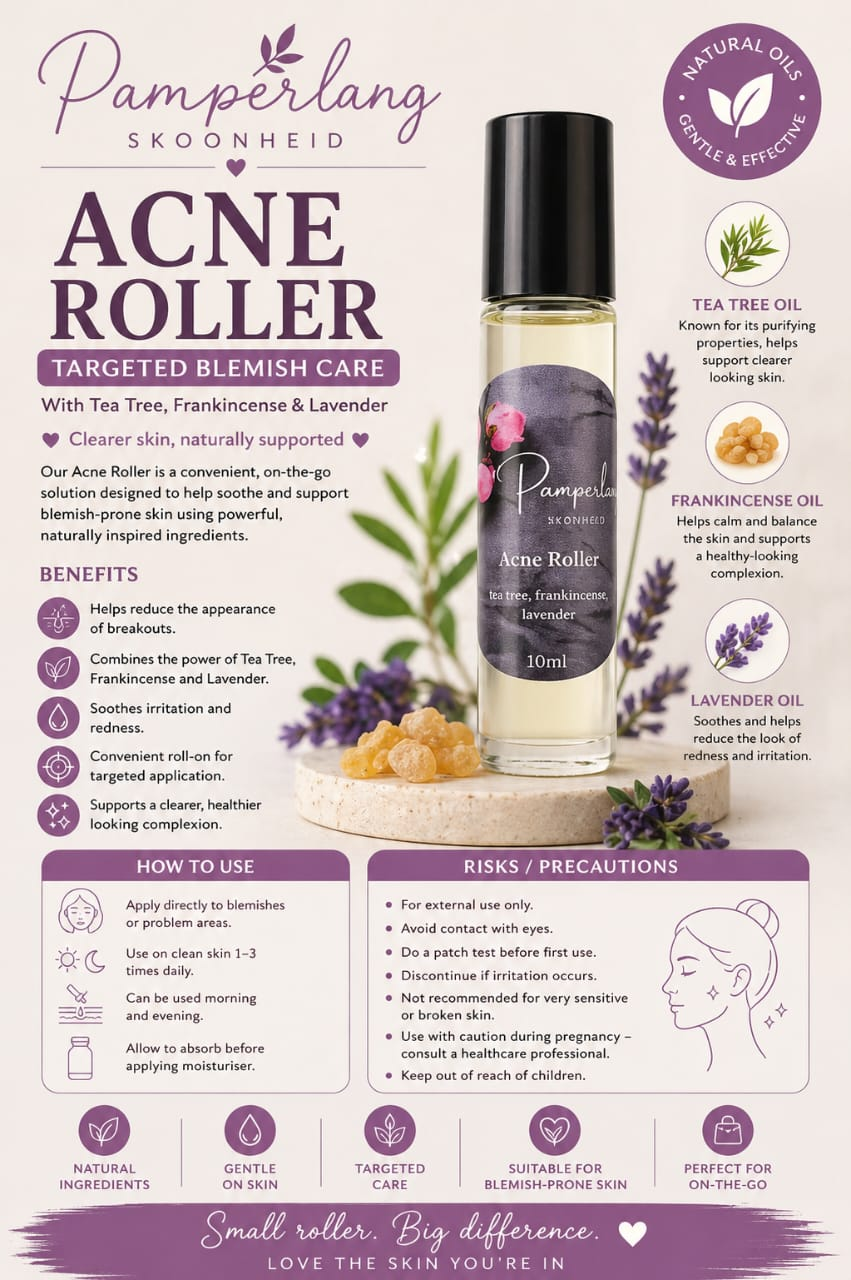
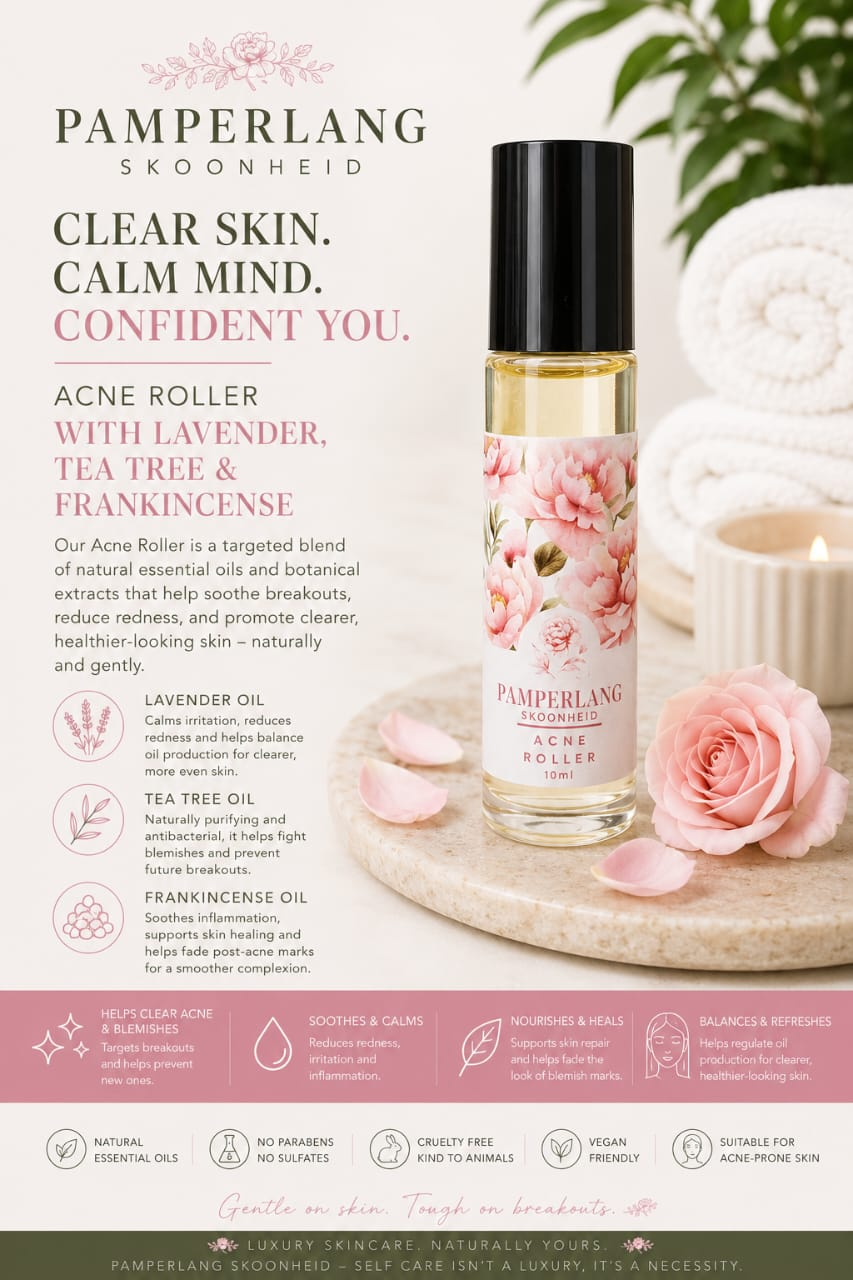
Swap in new branded promo card images for facial skincare range
Replaced plain product photos with Pamperlang's new marketing card
graphics (ingredients, benefits, key claims) for 16 facial skincare
products. Added a "Complete Skincare For Every Step" collection
banner right under the hero.

diff --git a/index.html b/index.html
@@ -1791,6 +1791,13 @@
     </div>
   </section>
 
+  <!-- Full Collection Banner -->
+  <section class="promo-banner-section" id="collection-banner" style="background: linear-gradient(135deg, #fbf1f4 0%, #fffbfb 60%, #f2cdd6 100%);">
+    <div class="promo-banner-inner" style="max-width: 480px;">
+      <img src="pamperlang-collection-hero.jpeg" alt="Pamperlang Skoonheid — Nourish. Restore. Glow. Complete natural skincare for every step: washes, toners, serums and moisturizers." class="promo-banner-img">
+    </div>
+  </section>
+
   <!-- Trust Strip -->
   <div class="trust-strip">
     <div class="trust-item"><strong>Komani</strong>Based in</div>
